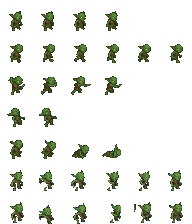
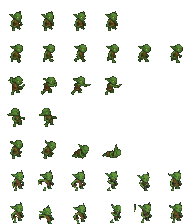
Arm-led stab, and a one-click fight page
Per review, the quick slash no longer drags the whole torso through
the strike: the arm does the work (windup -95 to strike +80) while the
body stays to a 2-3 degree breath and the hip shove is gone. The lunge
keeps its full-body drive - that one is meant to. Rig configs updated,
row 5 rebaked from the new keys.

dev_fight.html auto-boots straight into the dungeon with goblins
closing in the moment the tab becomes visible - no menus - for
reviewing enemy animations in the real game.

diff --git a/dev_fight.html b/dev_fight.html
@@ -1,0 +1,45 @@
+<!DOCTYPE html>
+<html lang="en">
+<head>
+  <meta charset="UTF-8" />
+  <title>PixelQuest — Goblin Fight (auto-boot)</title>
+  <style>
+    html, body { margin: 0; height: 100%; background: #0b0a12; display: flex;
+                 align-items: center; justify-content: center; }
+    canvas { image-rendering: pixelated; width: 96vw; max-height: 96vh;
+             aspect-ratio: 16 / 9; }
+  </style>
+</head>
+<body>
+  <canvas id="game" width="480" height="270"></canvas>
+  <script type="module">
+    import './src/main.js';
+    // Auto-drive: as soon as frames actually flow (page visible), skip the
+    // menus and drop into the dungeon with goblins closing in.
+    const wait = (ms) => new Promise((r) => setTimeout(r, ms));
+    async function boot() {
+      for (let i = 0; i < 100 && !window.PQDev; i++) await wait(150);
+      if (!window.PQDev) return;
+      // wait until rAF is alive (tab visible) so transitions can play
+      let alive = false;
+      while (!alive) {
+        const t0 = await new Promise((r) => requestAnimationFrame(r));
+        alive = true;
+      }
+      window.PQDev.start('warrior');
+      await wait(1100);
+      window.PQDev.dungeon();
+      for (let i = 0; i < 40; i++) {
+        await wait(400);
+        const sc = window.__game && window.__game.scene;
+        if (sc && sc._spawnEnemy) {
+          sc._spawnEnemy('goblin', sc.camX + 200, 180);
+          sc._spawnEnemy('goblin', sc.camX + 235, 200);
+          break;
+        }
+      }
+    }
+    boot();
+  </script>
+</body>
+</html>
